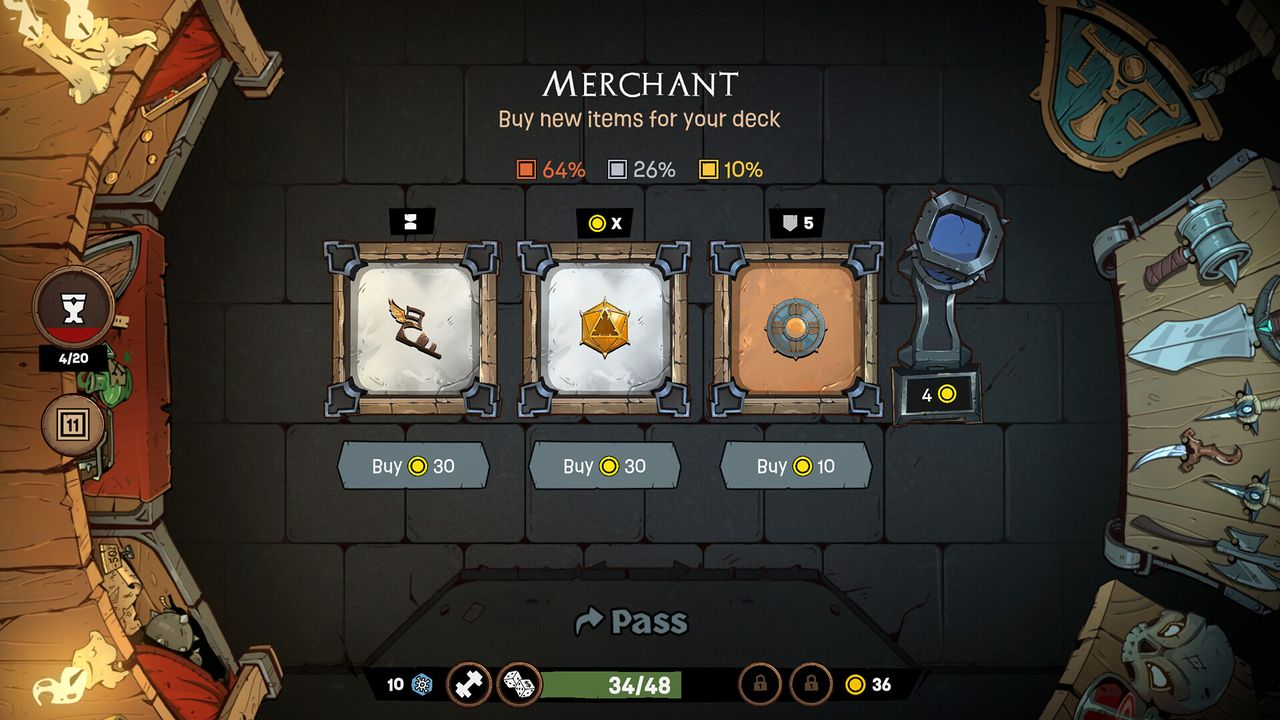
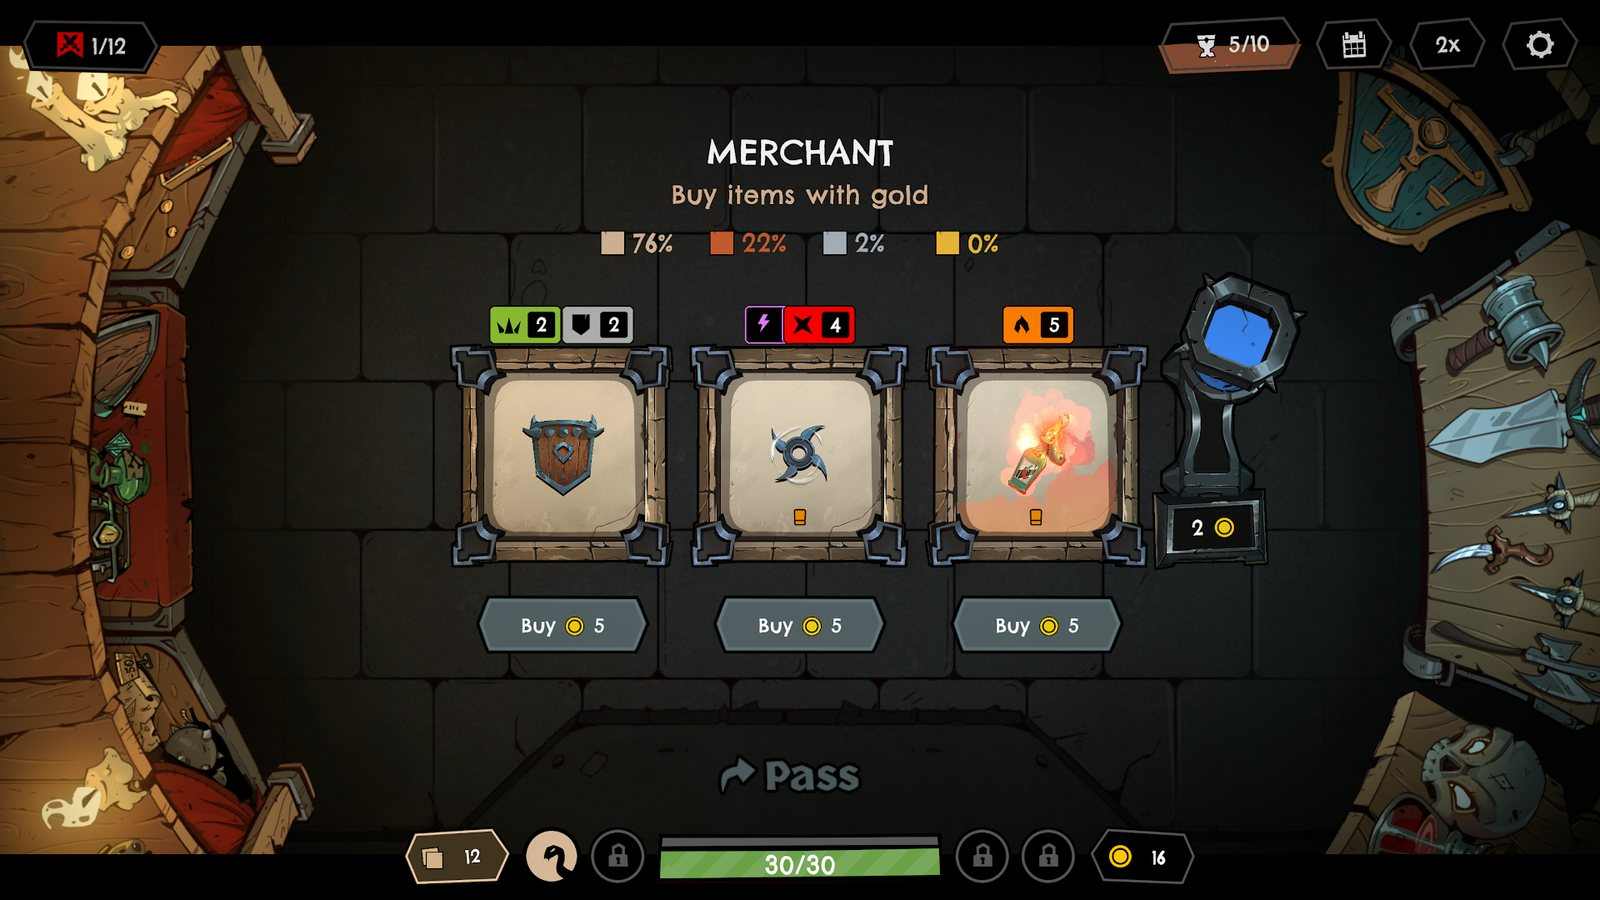
New Slots & Slaughter screenshots from the shared Drive
The site was showing shots from 17 Sep; Laser Castle added 25 new ones
on 25 Oct under Imagery/Screenshots in the asset-pack folder the press
kit already links.

Picked six for a spread across the four kinds available (combat boards,
room screens, the run map, opponent splash cards): the board mid-fight,
Captain P. Lunder, the Merchant, a level-up ability choice, the week
4/12 map, and Cactus Maximus. 1600x900 JPEG at q84, 1.1MB for six; the
old four were 1280x720.

Press kit gallery goes from four shots to six. The game page carousel
keeps four, with captions rewritten to match the new frames. The .ph
placeholder labels said "Coming soon" from when there were no
screenshots; they are real labels now.

shot-attack, shot-board and shot-sanitarium deleted, nothing else
referenced them.

diff --git a/slots-slaughter/presskit/index.html b/slots-slaughter/presskit/index.html
@@ -348,10 +348,12 @@ html{overflow-x:clip}
         <h2 class="pk-h2">Screenshots</h2>
         <p>Click any shot to enlarge. Full-res screenshots, key art and logos are in the <a href="https://drive.google.com/drive/folders/1Oyu8hB36oPboH7C_eCgc4eWyofaRoOU0?usp=sharing" target="_blank" rel="noopener" style="color:var(--gold-bright);">downloadable asset pack →</a></p>
         <div class="pk-gallery" id="pk-gallery">
-          <div class="pk-shot"><span class="ph">Coming soon</span><img src="/images/slots-slaughter/shot-attack.jpg" alt="Slots & Slaughter combat board" loading="lazy" onerror="this.style.display='none'"></div>
-          <div class="pk-shot"><span class="ph">Coming soon</span><img src="/images/slots-slaughter/shot-sanitarium.jpg" alt="The Sanitarium heal screen in Slots & Slaughter" loading="lazy" onerror="this.style.display='none'"></div>
-          <div class="pk-shot"><span class="ph">Coming soon</span><img src="/images/slots-slaughter/shot-merchant.jpg" alt="The Merchant shop in Slots & Slaughter" loading="lazy" onerror="this.style.display='none'"></div>
-          <div class="pk-shot"><span class="ph">Coming soon</span><img src="/images/slots-slaughter/shot-board.jpg" alt="Fighting Medusa in Slots & Slaughter" loading="lazy" onerror="this.style.display='none'"></div>
+          <div class="pk-shot"><span class="ph">The board</span><img src="/images/slots-slaughter/shot-battle.jpg" alt="A fight in progress in Slots &amp; Slaughter, items loaded on the reels" loading="lazy" onerror="this.style.display='none'"></div>
+          <div class="pk-shot"><span class="ph">Captain P. Lunder</span><img src="/images/slots-slaughter/shot-boss.jpg" alt="Fighting Captain P. Lunder in Slots &amp; Slaughter" loading="lazy" onerror="this.style.display='none'"></div>
+          <div class="pk-shot"><span class="ph">The Merchant</span><img src="/images/slots-slaughter/shot-merchant.jpg" alt="Buying items with gold at the Merchant" loading="lazy" onerror="this.style.display='none'"></div>
+          <div class="pk-shot"><span class="ph">Level up</span><img src="/images/slots-slaughter/shot-levelup.jpg" alt="Choosing an ability on level up" loading="lazy" onerror="this.style.display='none'"></div>
+          <div class="pk-shot"><span class="ph">Week 4 of 12</span><img src="/images/slots-slaughter/shot-map.jpg" alt="The run map, four weeks into a twelve week run" loading="lazy" onerror="this.style.display='none'"></div>
+          <div class="pk-shot"><span class="ph">Cactus Maximus</span><img src="/images/slots-slaughter/shot-opponent.jpg" alt="Cactus Maximus, the next opponent, and the trait to work around" loading="lazy" onerror="this.style.display='none'"></div>
         </div>
       </section>
 

diff --git a/slots-slaughter/index.html b/slots-slaughter/index.html
@@ -195,10 +195,10 @@ html{overflow-x:clip}
 
   <div class="gallery">
     <div class="shots">
-      <figure><img src="/images/slots-slaughter/shot-board.jpg" alt=""><figcaption>Load the reels, then let the d20 decide</figcaption></figure>
-      <figure><img src="/images/slots-slaughter/shot-attack.jpg" alt=""><figcaption>Every fight is a fresh pull of the lever</figcaption></figure>
+      <figure><img src="/images/slots-slaughter/shot-battle.jpg" alt=""><figcaption>Load the reels, then let the d20 decide</figcaption></figure>
+      <figure><img src="/images/slots-slaughter/shot-boss.jpg" alt=""><figcaption>Bosses hit harder and bring their own rules</figcaption></figure>
       <figure><img src="/images/slots-slaughter/shot-merchant.jpg" alt=""><figcaption>Buy gear from the Merchant between fights</figcaption></figure>
-      <figure><img src="/images/slots-slaughter/shot-sanitarium.jpg" alt=""><figcaption>Patch up at the Sanitarium, then back in</figcaption></figure>
+      <figure><img src="/images/slots-slaughter/shot-opponent.jpg" alt=""><figcaption>Every opponent has a trait to work around</figcaption></figure>
     </div>
     <button class="gnav gprev" type="button" aria-label="Previous screenshots">‹</button>
     <button class="gnav gnext" type="button" aria-label="Next screenshots">›</button>
